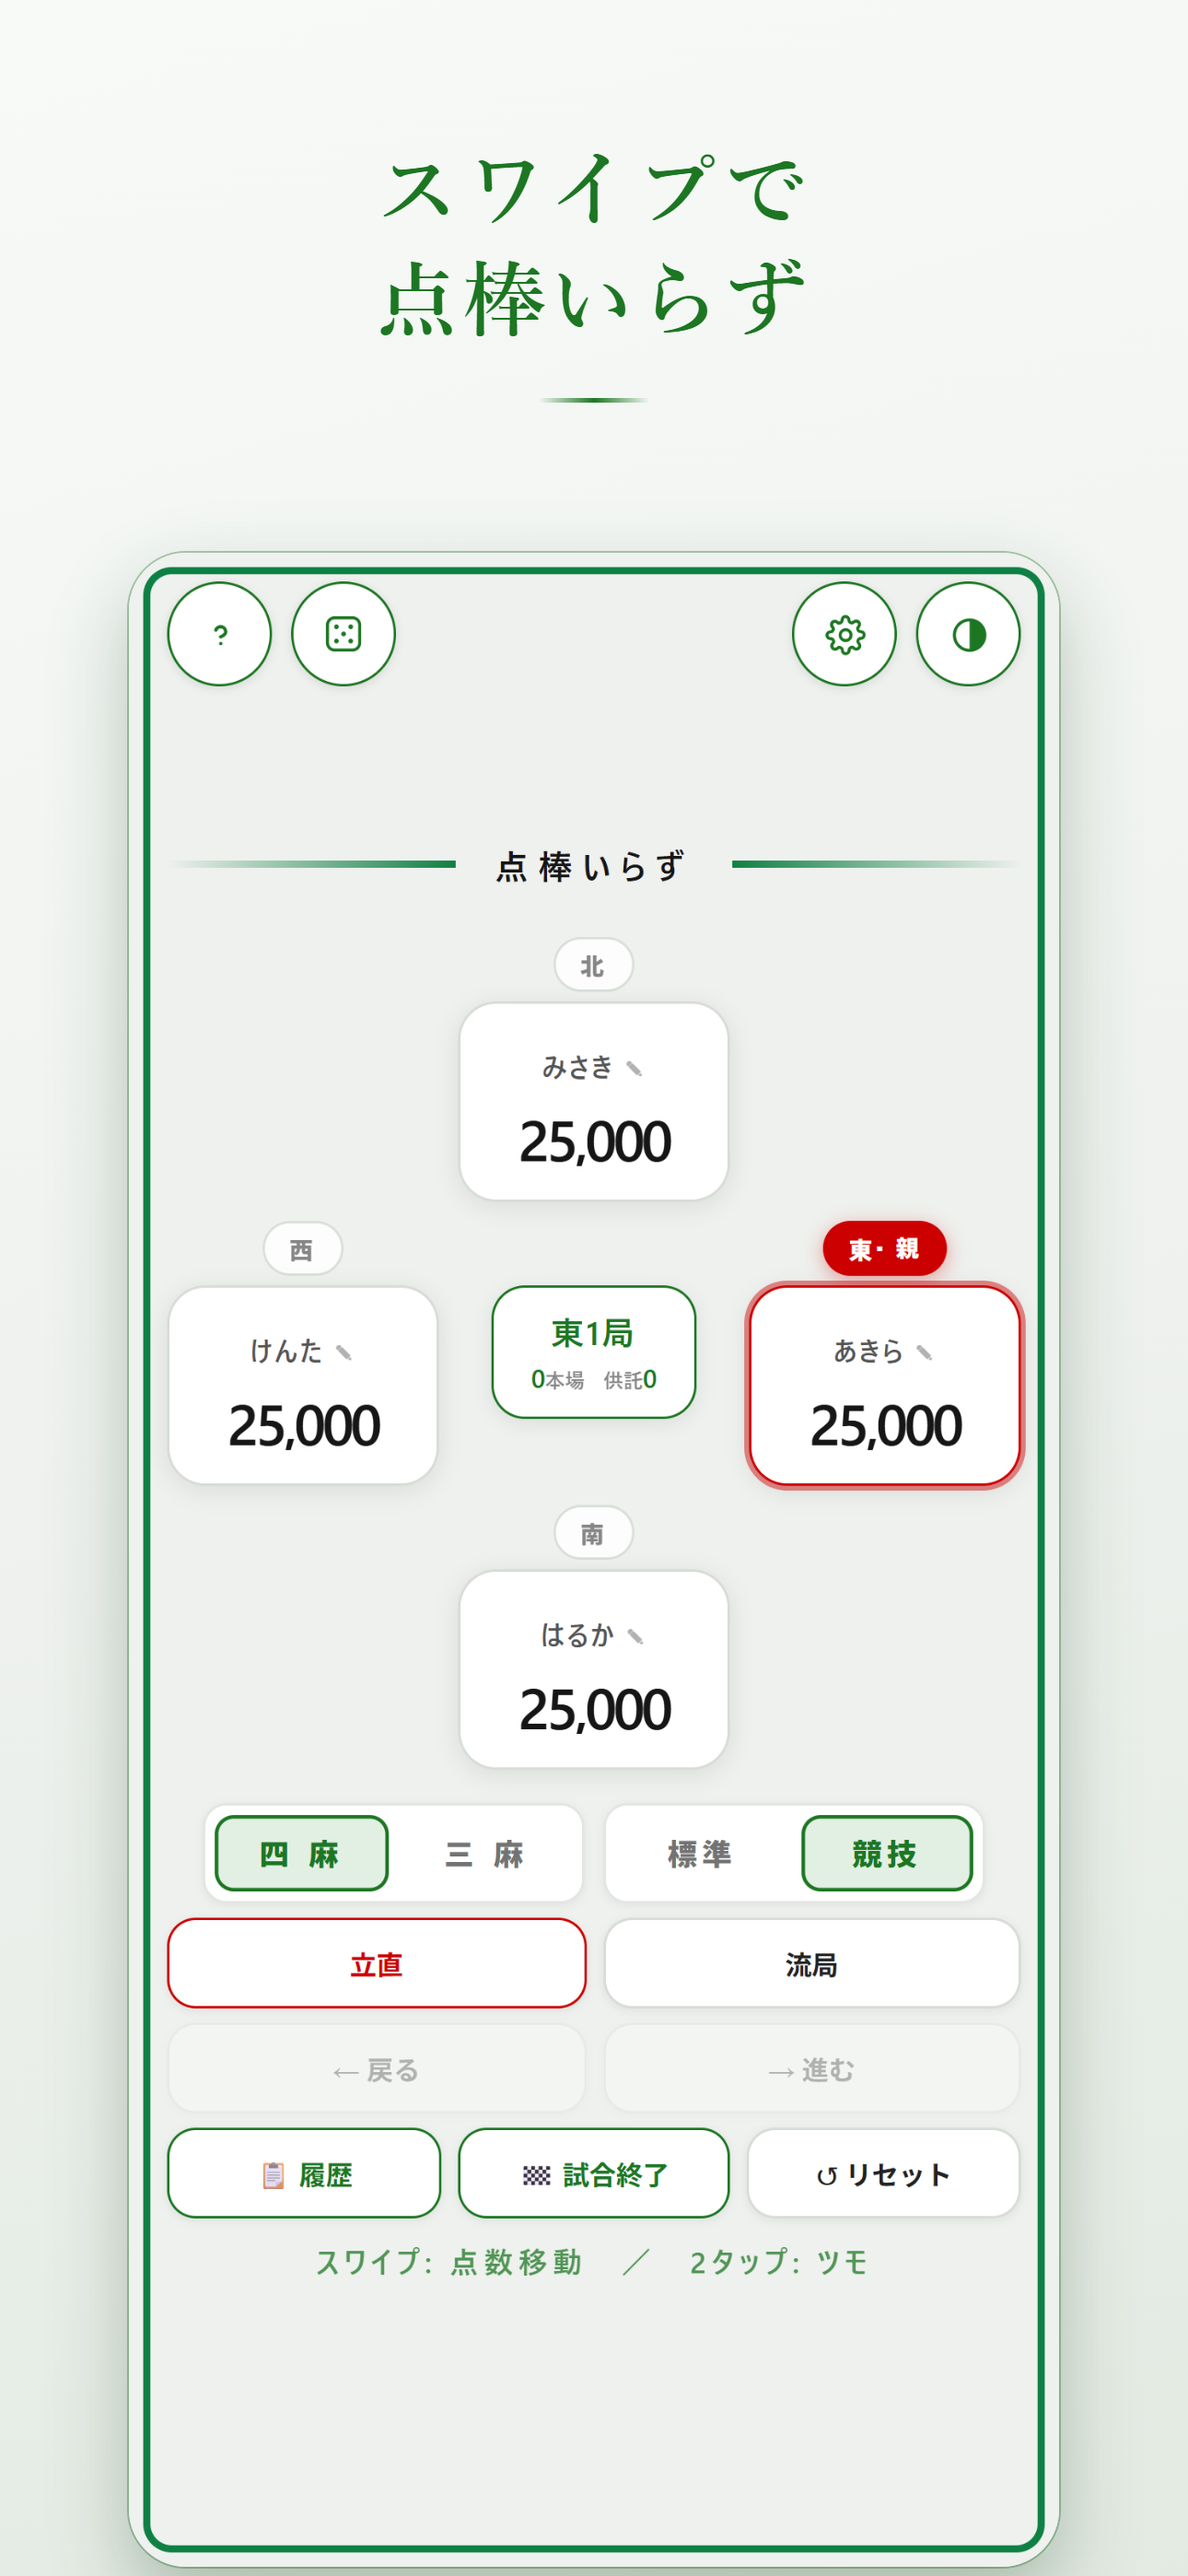
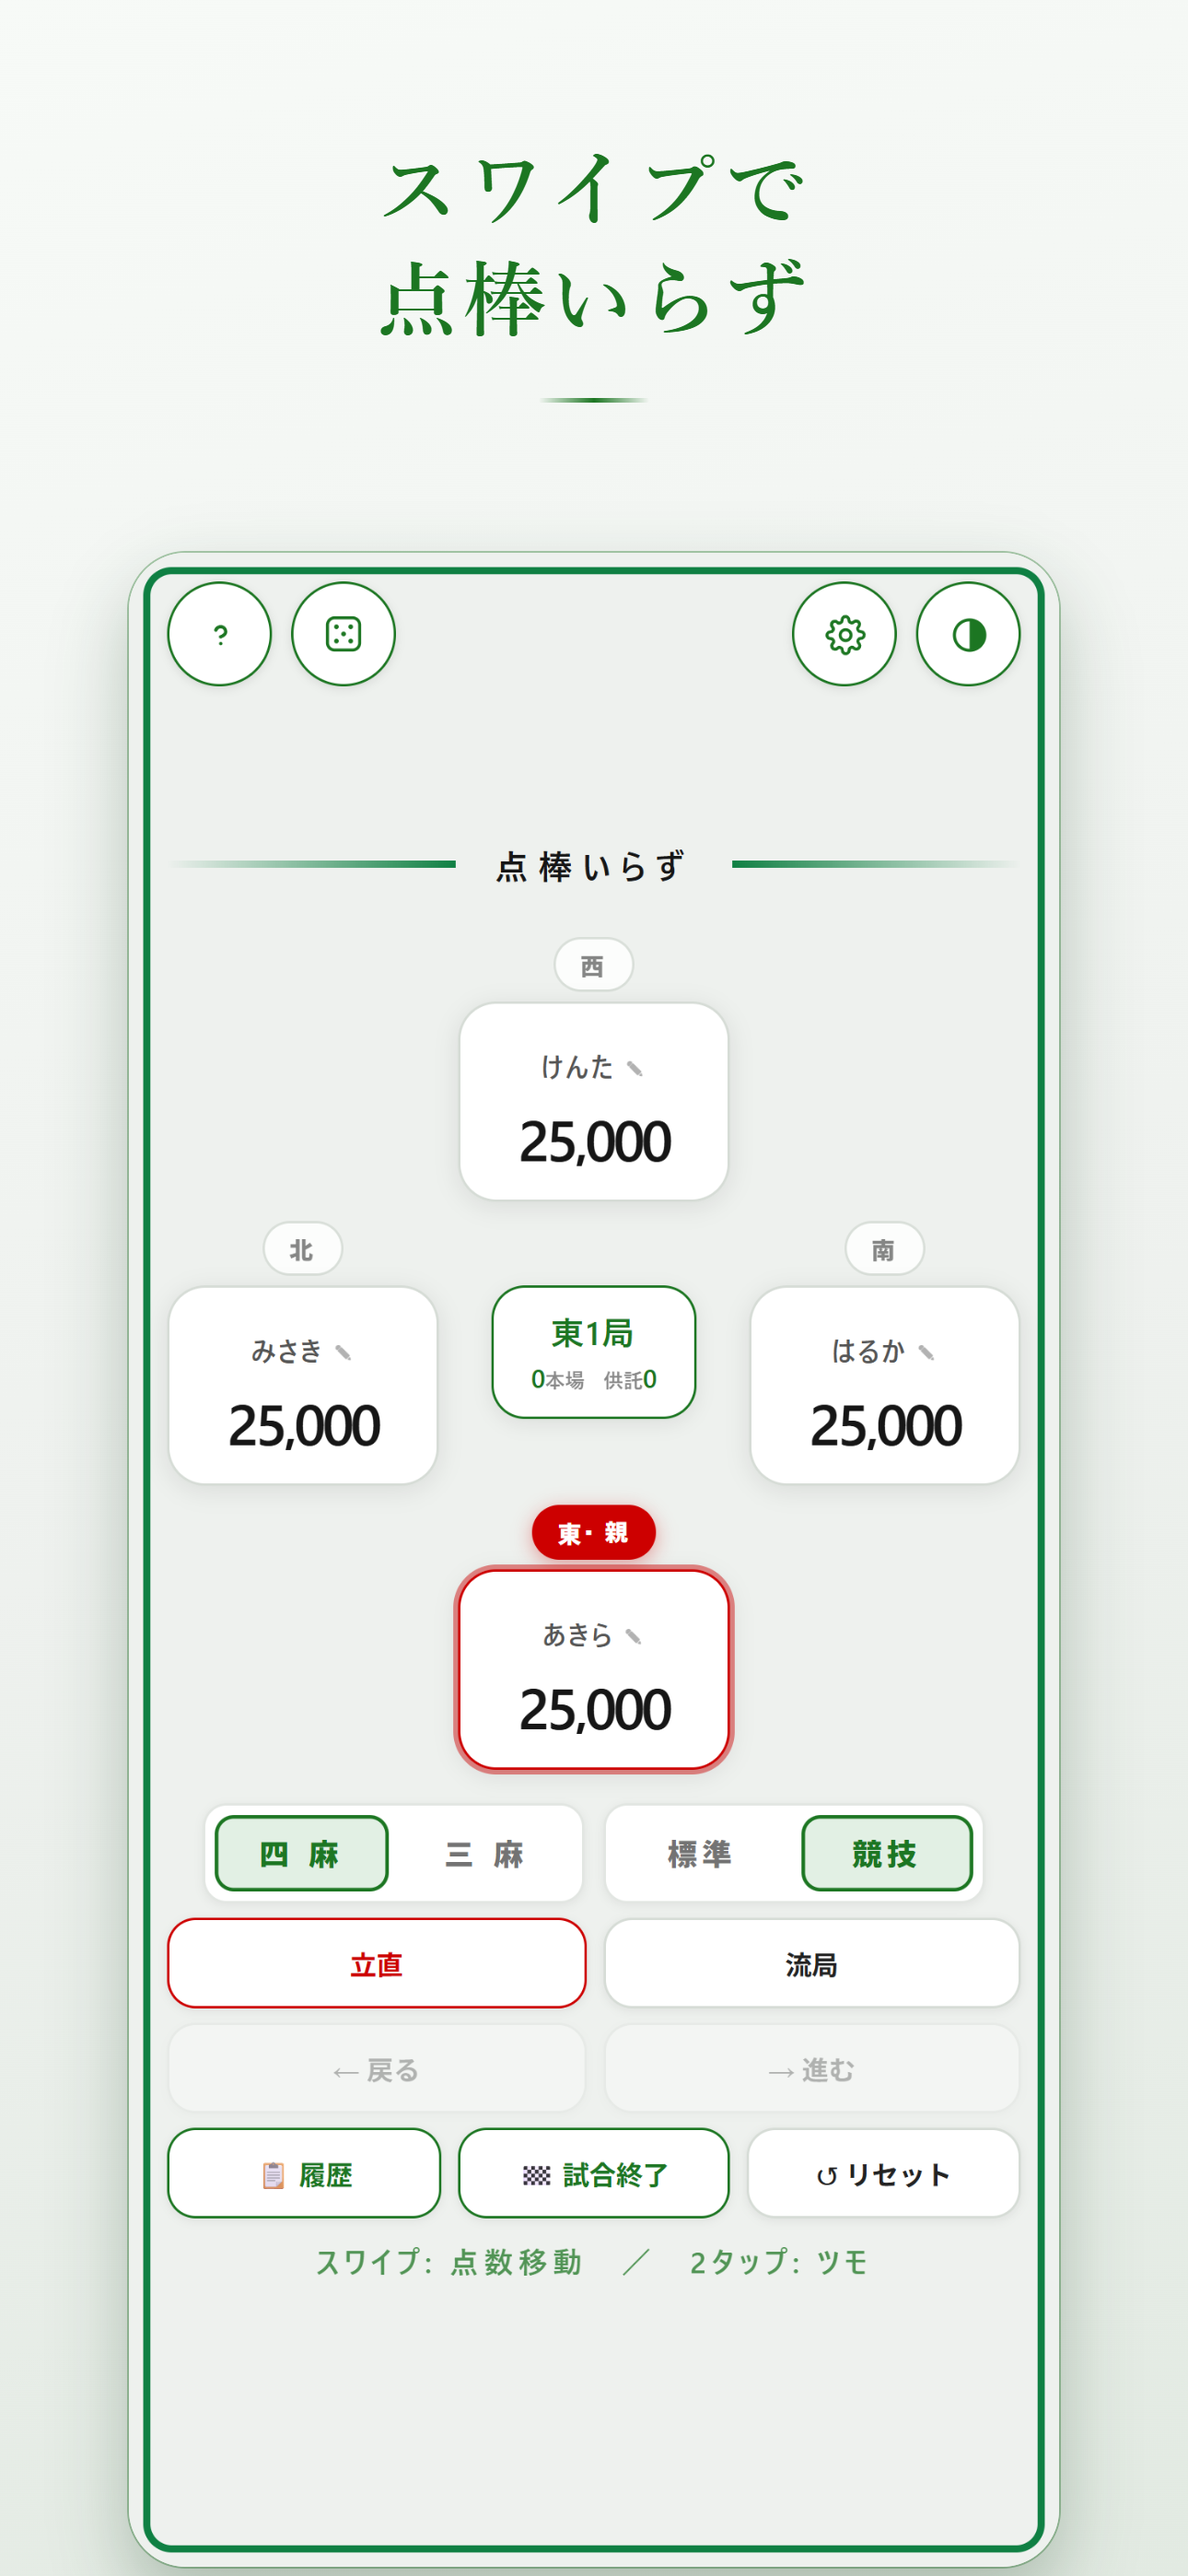
fix: 三麻の座席・名前編集の方角表示を修正（東・南・西に統一）
① 名前編集モーダル: 三麻では未使用の西行を隠すだけで「東南北」表示に
   なっていた。3人目(内部id: north)の風ラベルを西に切替え「東南西」表示へ
② 三麻の3人目カードが北の位置(左)に残っていたため、東の対面(上)へ移動
   （縦画面・横画面とも。横画面は対面向きに180度回転）
③ ヘルプの三麻説明を「西家なし」→「東・南・西、北家なし」に修正
④ ストアスクショ(6.7/13)を新席配置(東=下)で再生成

検証: 三麻の縦/横/名前モーダルをスクショ確認、テスト183件パス。

diff --git a/index.html b/index.html
@@ -483,6 +483,8 @@
     .pos-south { grid-column: 3/4; grid-row: 2/3; }  /* 右 */
     .pos-east  { grid-column: 2/3; grid-row: 3/4; }  /* 下 */
     .grid.sanma .pos-west { display: none; }
+    /* 三麻: 3人目（内部id: north・表示は西）は東の対面=上へ */
+    .grid.sanma .pos-north { grid-column: 2/3; grid-row: 1/2; }
 
     .center {
       grid-column: 2/3; grid-row: 2/3;
@@ -1427,6 +1429,8 @@
       .pos-north { left: 3vh;  top: 50%;   transform: translateY(-50%) rotate(90deg);  transform-origin: center; }
       .pos-south { right: 3vh; top: 50%;   transform: translateY(-50%) rotate(-90deg); transform-origin: center; }
       .grid.sanma .pos-west { display: none; }
+      /* 三麻: 3人目（表示は西）は東の対面=上へ */
+      .grid.sanma .pos-north { left: 50%; top: 3vh; right: auto; bottom: auto; transform: translateX(-50%) rotate(180deg); }
 
       /* 点数は大きく（ただし余白優先で少し抑える） */
       .player-name { font-size: clamp(0.8rem, 3vh, 1.05rem); margin-bottom: 1px; }
@@ -2012,7 +2016,7 @@
       </div>
       <div class="help-row">
         <span class="help-op">三 麻</span>
-        <span class="help-desc">3人・35,000点スタート（西家なし）／ウマ [20, 0, -20]</span>
+        <span class="help-desc">3人（東・南・西、北家なし）・35,000点スタート／ウマ [20, 0, -20]</span>
       </div>
     </div>
 
@@ -2577,9 +2581,11 @@
     }
   }
   function openNameModal(focusId) {
-    /* 三麻は西を隠す */
+    /* 三麻: 未使用の西行を隠し、3人目(内部id: north)の風表示を西にする（東・南・西の3人） */
     const westRow = document.querySelector('.name-row[data-name-id="west"]');
     if (westRow) westRow.style.display = sanmaMode ? 'none' : '';
+    const northWind = document.querySelector('.name-row[data-name-id="north"] .name-wind');
+    if (northWind) northWind.textContent = sanmaMode ? '西' : '北';
     document.getElementById('nameModal').classList.add('show');
     if (focusId && nameEls[focusId]) {
       const inp = nameEls[focusId];
